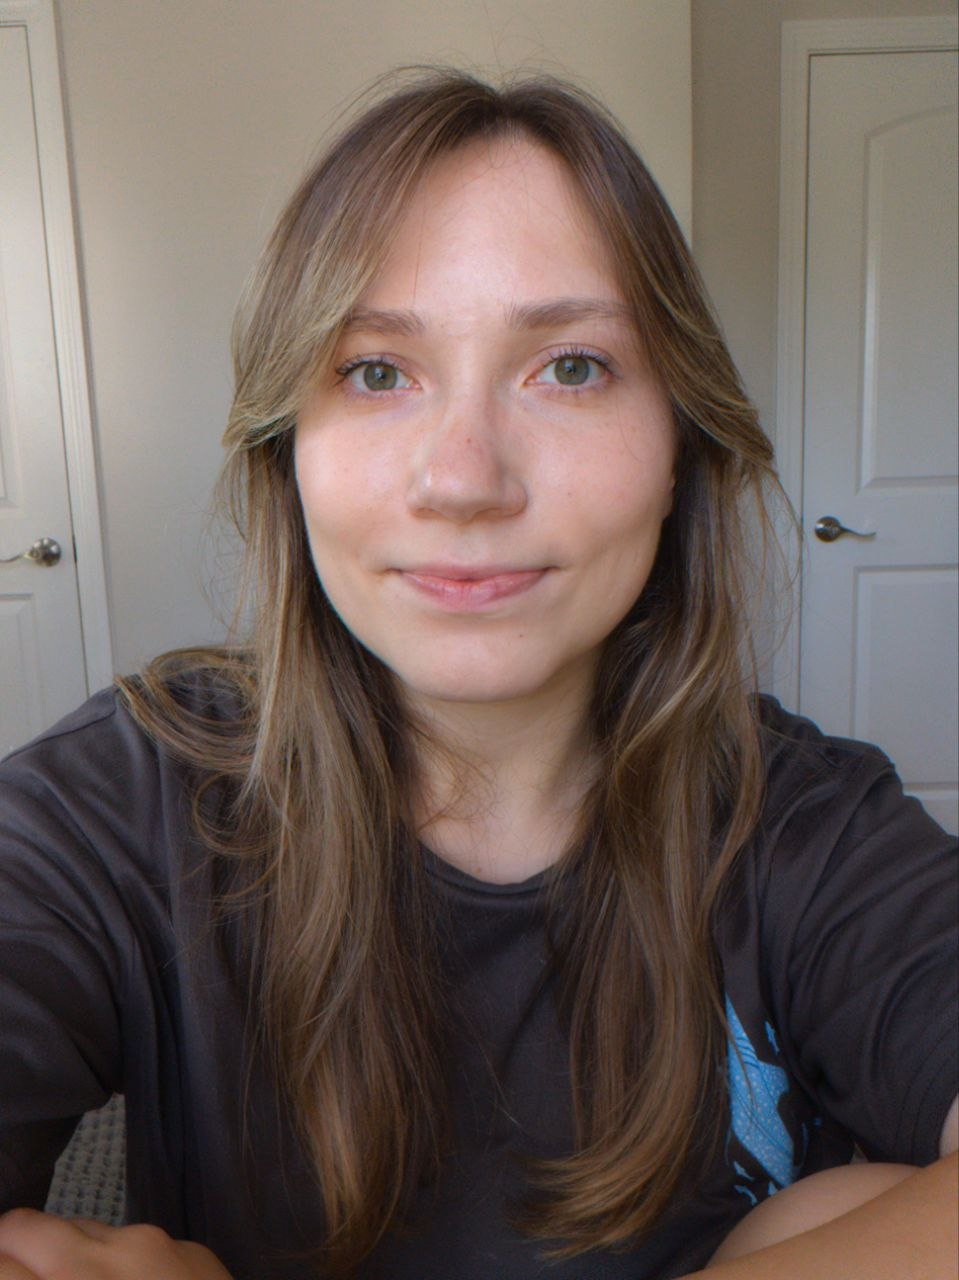
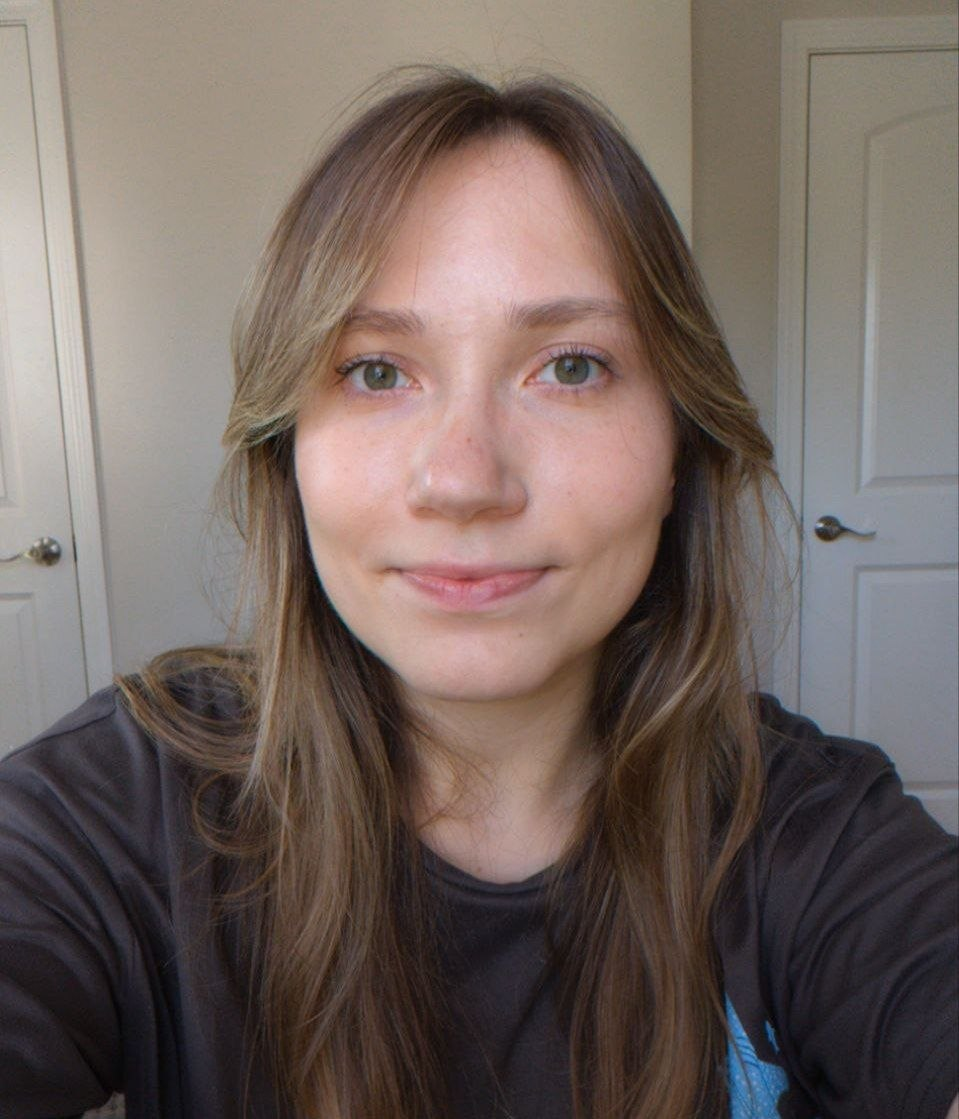
add changes

diff --git a/index.html b/index.html
@@ -33,8 +33,7 @@
   "image": "https://vikakryshchuk.com/assets/viktoriia.jpg",
   "url": "https://vikakryshchuk.com/",
   "email": "mailto:viktoriakryshchuk@gmail.com",
-  "telephone": "+1-435-272-5646",
-  "sameAs": ["https://www.linkedin.com/in/viktoriia-kryshchuk-52a66724a/"],
+  "sameAs": ["https://www.linkedin.com/in/viktoriia-kryshchuk-52a66724a/", "https://t.me/Viktoria_Kryshchuk"],
   "hasCredential": [
     { "@type": "EducationalOccupationalCredential", "name": "Бакалавр прикладної лінгвістики, Волинський національний університет ім. Лесі Українки" },
     { "@type": "EducationalOccupationalCredential", "name": "ParaPro Assessment (Massachusetts)" }
@@ -80,7 +79,7 @@
         <p class="trust-line">Бакалавр прикладної лінгвістики · ParaPro Assessment (MA) · Індивідуальний підхід</p>
       </div>
       <div class="hero-photo">
-        <img src="assets/viktoriia.jpg" alt="Вікторія Крищук, репетиторка англійської мови" width="959" height="1280" fetchpriority="high" decoding="async">
+        <img src="assets/viktoriia.jpg" alt="Вікторія Крищук, репетиторка англійської мови" width="959" height="1119" fetchpriority="high" decoding="async">
       </div>
     </div>
   </section>
@@ -129,7 +128,6 @@
       <h2>Кваліфікація</h2>
       <ul class="credentials-list">
         <li><span class="cred-year">2021–2025</span><span class="cred-name">Бакалавр прикладної лінгвістики (переклад і комп'ютерна лінгвістика)</span><span class="cred-org">Волинський національний університет ім. Лесі Українки</span></li>
-        <li><span class="cred-year">—</span><span class="cred-name">ParaPro Assessment — складено</span><span class="cred-org">Massachusetts</span></li>
       </ul>
     </div>
   </section>
@@ -143,7 +141,7 @@
           <span class="step-num">01</span>
           <div>
             <h3>Залиш заявку</h3>
-            <p>Пишеш у формі чи телефонуєш, домовляємось про зручний час.</p>
+            <p>Пишеш у формі чи в Telegram, домовляємось про зручний час.</p>
           </div>
         </li>
         <li>
@@ -224,7 +222,7 @@
     <div class="container contact-grid">
       <div class="contact-info">
         <h2>Напиши — відповім швидко</h2>
-        <p>Напиши на пошту, подзвони або напиши в LinkedIn.</p>
+        <p>Напиши на пошту, в Telegram або в LinkedIn.</p>
         <ul class="contact-links">
           <li>
             <a href="mailto:viktoriakryshchuk@gmail.com">
@@ -235,11 +233,11 @@
             </a>
           </li>
           <li>
-            <a href="tel:+14352725646">
+            <a href="https://t.me/Viktoria_Kryshchuk" target="_blank" rel="noopener">
               <span class="contact-icon" aria-hidden="true">
-                <svg viewBox="0 0 24 24" fill="none" stroke="currentColor" stroke-width="2" stroke-linecap="round" stroke-linejoin="round"><path d="M22 16.92v3a2 2 0 0 1-2.18 2 19.79 19.79 0 0 1-8.63-3.07 19.5 19.5 0 0 1-6-6 19.79 19.79 0 0 1-3.07-8.67A2 2 0 0 1 4.11 2h3a2 2 0 0 1 2 1.72c.127.96.361 1.902.7 2.81a2 2 0 0 1-.45 2.11L8.09 9.91a16 16 0 0 0 6 6l1.27-1.27a2 2 0 0 1 2.11-.45c.908.339 1.85.573 2.81.7A2 2 0 0 1 22 16.92z"/></svg>
+                <svg viewBox="0 0 24 24" fill="none" stroke="currentColor" stroke-width="2" stroke-linecap="round" stroke-linejoin="round"><path d="M22 2 11 13"/><path d="M22 2 15 22l-4-9-9-4 20-7Z"/></svg>
               </span>
-              +1 435 272 5646
+              Telegram
             </a>
           </li>
           <li>
@@ -258,7 +256,7 @@
           <input type="text" id="name" name="name" autocomplete="name" required>
         </div>
         <div class="form-field">
-          <label for="email">Контакт (email чи телефон)</label>
+          <label for="email">Контакт (email чи Telegram)</label>
           <input type="text" id="email" name="email" autocomplete="email" required>
         </div>
         <div class="form-field">
@@ -278,7 +276,7 @@
     <span>&copy; <span id="year"></span></span>
     <span class="footer-links">
       <a href="https://www.linkedin.com/in/viktoriia-kryshchuk-52a66724a/" target="_blank" rel="noopener">LinkedIn</a>
-      <a href="tel:+14352725646">+1 435 272 5646</a>
+      <a href="https://t.me/Viktoria_Kryshchuk" target="_blank" rel="noopener">Telegram</a>
     </span>
   </div>
 </footer>
